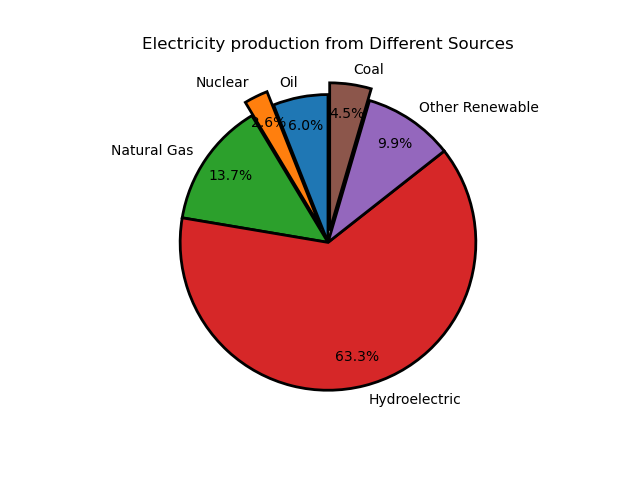
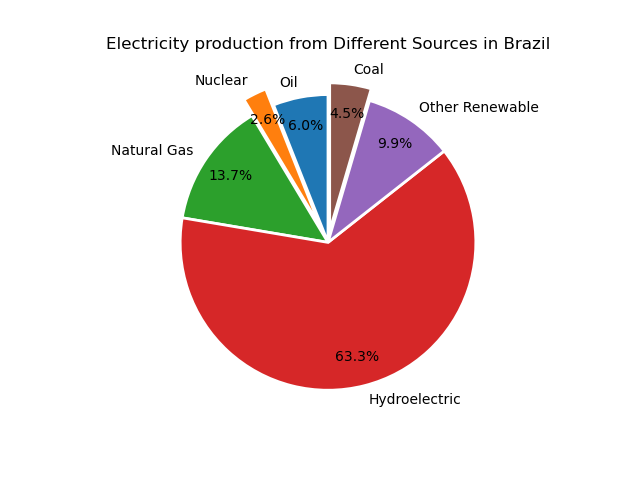
final code

diff --git a/Stats&Trends.py b/Stats&Trends.py
@@ -4,6 +4,8 @@ import pandas as pd
 import numpy as np
 import matplotlib.pyplot as plt
 import seaborn as sns
+from scipy.stats import skew
+from scipy.stats import kurtosis
 
 
 def readFile(filename, cntry_list, indicator):
@@ -20,20 +22,60 @@ def readFile(filename, cntry_list, indicator):
         trans_df (dataframe): transposed dataframe of final_df having
                             countries as columns
     """
-    df = pd.read_csv(filename, skiprows=2, header=1)
+    df = pd.read_csv(filename, skiprows=2, header=1)  # read the data
+    # filtering the data with country and indicators
     ref_df = df[(df['Country Name'].isin(cntry_list))
                 & (df['Indicator Name'] == indicator)]
+    # dropping the unwanted columns
     ref_df = ref_df.drop(df.columns[1:4], axis=1)
     ref_df = ref_df.drop(df.columns[-1:], axis=1)
+    # filtering the years
     yr = [str(year) for year in range(1960, 2005)] + [str(year)
                                                       for year in range(2015, 2023)]
     final_df = ref_df.drop(columns=yr)
+    # reseting the index
     final_df = final_df.reset_index(drop=True)
+    # getting the transposed dataframe
     trans_df = final_df.transpose()
+    # cleaning the transposed dataframe
     trans_df.columns = trans_df.iloc[0]
     trans_df = trans_df[1:]
     trans_df.index.names = ['Years']
+    # returning the 2 dataframes
     return final_df, trans_df
+
+
+def Corr_Heatmap(year):
+    """ create a heatmap for selected indicators in a year
+
+    Args:
+        year (string): _selected year
+    """
+    # filtering out the required year from selected indicators
+    renewop_lst = renew_op[year]
+    ele_cons_lst = ele_cons[year]
+    pop_tot_lst = pop_tot[year]
+    access_tot_lst = access_tot[year]
+    # making a dictionary of filtered values
+    heat = {'Country Name': cntry_list,
+            'Population_Total': pop_tot_lst,
+            'Renewable_Output': renewop_lst,
+            'Electricity_Consumption': ele_cons_lst,
+            'Access_to_Electricity': access_tot_lst}
+    # new filtered dataframe
+    heat_df = pd.DataFrame(heat)
+    # finding the corrilation between variables(corrilation matrix)
+    corr_heat = heat_df.iloc[0:, 1:].corr()
+    # plotting the heatmap using seaborn
+    plt.figure(figsize=(8, 8))
+    sns.heatmap(corr_heat, annot=True, cmap='coolwarm', fmt=".2f",
+                linewidths=0.5)
+    # giving title to plot
+    plt.title('Correlation Matrix of selected Indicators in 2014')
+    # save the plot
+    plt.savefig('Heatmap.png')
+    # show the plot
+    plt.show()
 
 
 def Barplot(data, bar_width=0.1):
@@ -44,7 +86,9 @@ def Barplot(data, bar_width=0.1):
         data (dataframe): dataframe of selected indicator
         bar_width (float): Defaults to 0.1.
     """
-    plt.figure(0)
+    plt.figure()  # plot the bar plot
+    plt.grid()  # giving grid to the plot
+    # set the x and y axis values and stacked bars
     x = data['Country Name']
     y1 = data['2006']
     y2 = data['2008']
@@ -55,42 +99,20 @@ def Barplot(data, bar_width=0.1):
     r2 = [x + bar_width for x in r1]
     r3 = [x + bar_width for x in r2]
     r4 = [x + bar_width for x in r3]
-    r5 = [x+bar_width for x in r4]
+    r5 = [x + bar_width for x in r4]
+    # draw the stacked bars
     plt.bar(r1, y1, color='b', width=bar_width)
     plt.bar(r2, y2, color='r', width=bar_width)
     plt.bar(r3, y3, color='g', width=bar_width)
     plt.bar(r4, y4, color='y', width=bar_width)
     plt.bar(r5, y5, color='c', width=bar_width)
-    plt.grid()
+    # define and label the axes
     plt.xticks([r + bar_width for r in range(len(x))], x)
     plt.legend(['2006', '2008', '2010', '2012', '2014'])
     plt.xlabel('Countries')
     plt.ylabel('Electricity Consumption in KWh')
     plt.title('Electric Power Consumption')
-    plt.savefig('Barplot.png')
-    plt.show()
-
-
-def Pieplot(country, year):
-    """ Create a pieplot for the distribution
-        of electricity production sources
-
-    Args:
-        country ( string_): country whose production sources to be known
-        year (_string_): year selected
-    """
-    lst = []
-    for i in pro_list:
-        a = i[i['Country Name'] == country][str(year)].unique()[0]
-        lst.append(a)
-    src_list = ['Oil', 'Nuclear', 'Natural Gas',
-                'Hydroelectric', 'Other Renewable', 'Coal']
-    plt.figure()
-    plt.pie(lst, labels=src_list, autopct='%1.1f%%', startangle=90,
-            pctdistance=0.8, explode=(0, 0.1, 0, 0, 0, 0.08), wedgeprops={"edgecolor": "black", "linewidth": 2,
-                                                                          "antialiased": True})
-    plt.title('Electricity production from Different Sources')
-    plt.savefig('Pieplot.png')
+    plt.savefig('Boxplot.png')
     plt.show()
 
 
@@ -101,57 +123,40 @@ def TimeSeries(country):
     Args:
         country (string): country whose line plot should be known
     """
+    # filtering the required countries from needed dfs as lists
     tot_lst = list(access_tot[access_tot['Country Name']
                    == country].iloc[0:, 1:].values[0])
     urban_lst = list(
         access_urban[access_urban['Country Name'] == country].iloc[0:, 1:].values[0])
     rural_lst = list(
         access_rural[access_rural['Country Name'] == country].iloc[0:, 1:].values[0])
-
+    # creating a dictionary with filtered values
     df_dict = {'Years': list(np.arange(2005, 2015)),
                'Total': tot_lst,
                'Urban': urban_lst,
                'Rural': rural_lst}
+    # making the filtered dataframe
     df = pd.DataFrame(df_dict)
 
+    # plot the line chart
     plt.figure(figsize=(10, 6))
-    sns.set_style('whitegrid')
+    plt.grid()
+    # draw 3 lines corresponding to the 3 indicators
     plt.plot(df['Years'], df['Total'], label='Access% in total population',
              linestyle='--', marker='o')
     plt.plot(df['Years'], df['Urban'], label='Access% in total Urban population',
              linestyle='--', marker='o')
     plt.plot(df['Years'], df['Rural'], label='Access% in total Rural population',
              linestyle='--', marker='o')
-    plt.title('Access to Electricity from 2005-2014')
+    # labeling and limiting the axes
+    plt.title('Access to Electricity from 2005-2014 in Malaysia')
     plt.xlabel('Years')
     plt.ylabel('Access to Electricity(%)')
+    plt.xlim(2005, 2014)
+    plt.ylim(97.5, 100)
     plt.legend()
+    # save the figure
     plt.savefig('Lineplot.png')
-    plt.show()
-
-
-def Corr_Heatmap(year):
-    """ create a heatmap for selected indicators in a year
-
-    Args:
-        year (string): _selected year
-    """
-    renewop_lst = renew_op[year]
-    ele_cons_lst = ele_cons[year]
-    pop_tot_lst = pop_tot[year]
-    access_tot_lst = access_tot[year]
-    heat = {'Country Name': cntry_list,
-            'Population_Total': pop_tot_lst,
-            'Renewable_Output': renewop_lst,
-            'Electricity_Consumption': ele_cons_lst,
-            'Access_to_Electricity(total)': access_tot_lst}
-    heat_df = pd.DataFrame(heat)
-    corr_heat = heat_df.iloc[0:, 1:].corr()
-    plt.figure(figsize=(10,8))
-    sns.heatmap(corr_heat, annot=True, cmap='coolwarm',
-                fmt=".2f", linewidths=.5)
-    plt.title('Correlation Matrix of selected Indicators in 2014')
-    plt.savefig('heatmap.png')
     plt.show()
 
 
@@ -162,33 +167,87 @@ def Boxplot(data):
         data (dataframe): data whose spread should be found
     """
     plt.figure()
+    # plot the box plot using seaborn
     sns.boxplot(data)
-    plt.title('Electricity Consumption in Different Countries from 2005-2014')
-    plt.ylabel('Electricity Consumption(KWh)')
+    # labeling and saving the figure
+    plt.title('Spread of Renewable Electricity o/p (2005-2014)')
+    plt.ylabel('Renewable electricity output')
     plt.xlabel('Country')
     plt.savefig('Boxplot.png')
     plt.show()
 
 
+def Pieplot(country, year):
+    """ Create a pieplot for the distribution
+        of electricity production sources
+
+    Args:
+        country ( string ): country whose production sources to be known
+        year (string): year selected
+    """
+    # filtering the sources dfs for selected country and year
+    lst = []
+    for df in source_list:
+        a = df[df['Country Name'] == country][str(year)].unique()[0]
+        lst.append(a)
+    # defining a list of source names
+    src_list = ['Oil', 'Nuclear', 'Natural Gas',
+                'Hydroelectric', 'Other Renewable', 'Coal']
+    # plotting the piechart
+    plt.figure()
+    plt.pie(lst, labels=src_list, autopct='%1.1f%%', startangle=90,
+            pctdistance=0.8, explode=(0, 0.12, 0, 0, 0, 0.08),
+            wedgeprops={"edgecolor": "white", "linewidth": 2,
+                        "antialiased": True})
+    # labeling and saving the figure
+    plt.title('Electricity production from Different Sources in Brazil')
+    plt.savefig('Pieplot.png')
+    plt.show()
+
+
+def Distplot(country):
+    """ create a Distribution plot to see the distribution of data and 
+    also to mark its skewness and kurtosis
+
+    Args:
+        country (string): country whose distribution 
+        on selected indicator should be found
+    """
+    # filtering the indicator with selected country
+    country_df = renew_op.loc[renew_op['Country Name'] == country]
+    # melting the df to create a new one with desire
+    country_melt = pd.melt(country_df, id_vars=[
+                           'Country Name'], var_name='Year', value_name='Value')
+    # filter the numerical values of the country out
+    country_filt = country_df.iloc[:, 1:].values.flatten()
+    # plot the figure
+    plt.figure(figsize=(8, 6))
+    sns.set(style="whitegrid")
+    # draw the distribution plot using seaborn
+    sns.distplot(country_melt['Value'], bins=10,
+                 hist=True, kde=True, color='green')
+    # finding skewness and kurtosis and labeling them in plot using plt.text()
+    plt.text(x=65, y=0.175, s='Skewness: ' +
+             f'{np.round(skew(country_filt),2)}', color="red", fontsize=12)
+    plt.text(x=65, y=0.160, s='Kurtosis: ' +
+             f'{np.round(kurtosis(country_filt),2)}', color="red", fontsize=12)
+    # labeling and saving the plot
+    plt.title('Distribution of Renewable Electricity o/p for Brazil (2005-2014)')
+    plt.xlabel('Renewable Electricity output(% of total)')
+    plt.ylabel('Density')
+    plt.savefig('Distplot.png')
+    plt.show()
+
+
+# defining the filepaths
 climate = 'API_19_DS2_en_csv_v2_6183479.csv'
 ele_rural = 'API_EG.ELC.ACCS.RU.ZS_DS2_en_csv_v2_5995527.csv'
 ele_urban = 'API_EG.ELC.ACCS.UR.ZS_DS2_en_csv_v2_5995527.csv'
 
+# selecting the needed countries for study
 cntry_list = ['Brazil', 'Argentina', 'Poland', 'China', 'Malaysia']
 
-ind = ['Population, total',
-       'Renewable electricity output (% of total electricity output)',
-       'Electricity production from oil sources (% of total)',
-       'Electricity production from nuclear sources (% of total)',
-       'Electricity production from natural gas sources (% of total)',
-       'Electricity production from hydroelectric sources (% of total)',
-       'Electricity production from coal sources (% of total)',
-       'Access to electricity (% of population)',
-       'Access to electricity, urban (% of urban population)',
-       'Access to electricity, rural (% of rural population)'
-       'Electricity production from renewable sources, excluding hydroelectric (% of total)',
-       'Electric power consumption (kWh per capita)']
-
+# reading and filtering dataframes of selected indicators
 pop_tot, pop_tot_trans = readFile(climate, cntry_list, 'Population, total')
 renew_op, renew_op_trans = readFile(
     climate, cntry_list, 'Renewable electricity output (% of total electricity output)')
@@ -213,11 +272,35 @@ renew, renew_trans = readFile(
 ele_cons, ele_cons_trans = readFile(
     climate, cntry_list, 'Electric power consumption (kWh per capita)')
 
+# list of dataframes of sources for electricity production
+source_list = [oil, nuclear, gas, hydro, renew, coal]
 
-pro_list = [oil, nuclear, gas, hydro, renew, coal]
+# gives the statistical description of the dataframe
+#calculate statistical properties of total access%
+access_tot_describe=access_tot.describe()
 
-Barplot(ele_cons, bar_width=0.1)
-Pieplot('Brazil', '2014')
-TimeSeries('Malaysia')
+#calculate the mean urban and rural access% of selected countries in 2005 and 2014
+urb_05=np.round(access_urban['2005'].mean(),2)
+urb_14=np.round(access_urban['2014'].mean(),2)
+rur_05=np.round(access_rural['2005'].mean(),2)
+rur_14=np.round(access_rural['2014'].mean(),2)
+
+''' heatmap showing the correlation between selected indicators'''
 Corr_Heatmap('2014')
+
+'''create a stacked barplot for electricity consumption 
+   in selected countries over selected years '''
+Barplot(ele_cons, bar_width=0.1)
+
+'''lineplot showing access% of total urban and rural to electricity'''
+TimeSeries('Malaysia')
+
+''' boxplot of selected countries' electrcity consumption'''
 Boxplot(ele_cons_trans)
+
+''' pieplot of brazil showing its electricity production sources'''
+Pieplot('Brazil', '2014')
+
+''' Distribution plot to see the distribution of renewable 
+    electricity o/p of Brazil over years '''
+Distplot('Brazil')
